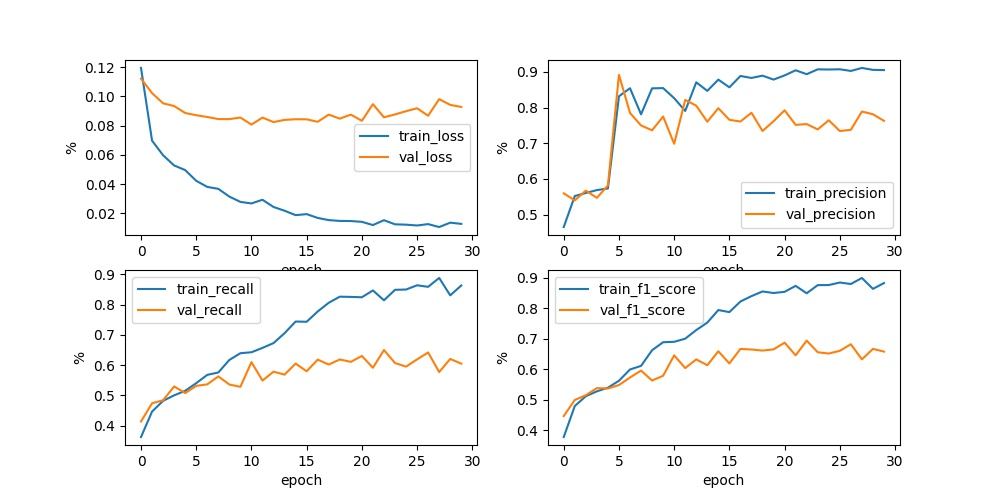
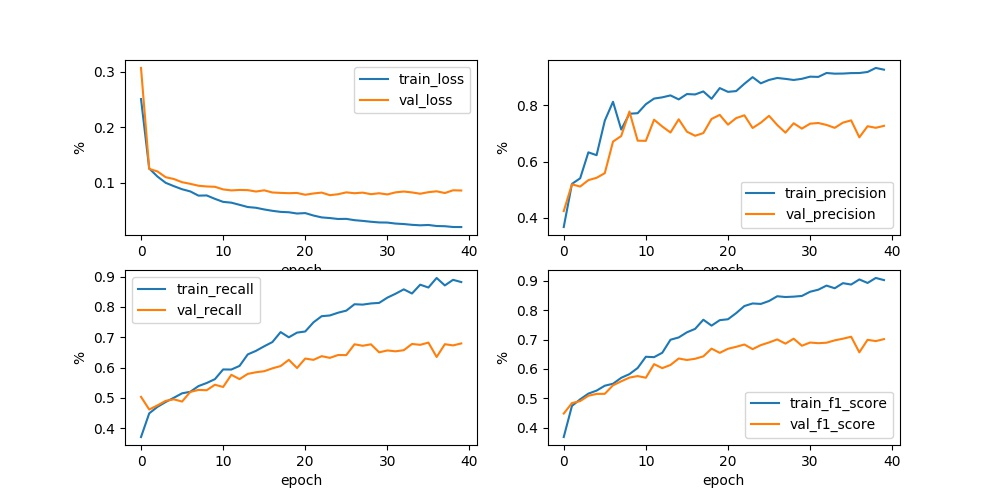
update

diff --git a/test.py b/test.py
@@ -1,3 +1,116 @@
 import yaml
+import os
+import torch
+from torch import nn
+from torch import optim
+from torch.utils.data import DataLoader
+import numpy as np
+import pickle
+from model import ConvTagger, FocalLoss
+from utils import ToweDataset, sentence_clip, eval, show
+from sklearn.metrics.scorer import precision_score, recall_score, f1_score
+from visualizer import Visualizer
 
 config = yaml.load(open('config.yml'))
+os.environ['CUDA_VISIBLE_DEVICES'] = str(config['gpu'])
+
+base_path = os.path.join('./data/', config['dataset'])
+train_data_path = os.path.join(base_path, 'train.npz')
+val_data_path = os.path.join(base_path, 'val.npz')
+log_path = os.path.join(base_path, 'log.yml')
+glove_path = os.path.join(base_path, 'glove.npy')
+plot_path = './plots/training.jpg'
+index2word_path = os.path.join(base_path, 'index2word.pickle')
+
+with open(index2word_path, 'rb') as handle:
+    index2word = pickle.load(handle)
+
+train_data = ToweDataset(train_data_path)
+val_data = ToweDataset(val_data_path)
+
+train_loader = DataLoader(
+    dataset=train_data,
+    batch_size=config['batch_size'],
+    shuffle=True,
+    pin_memory=True
+)
+val_loader = DataLoader(
+    dataset=val_data,
+    batch_size=config['batch_size'],
+    shuffle=False,
+    pin_memory=True
+)
+
+log = yaml.load(open(log_path))
+
+embedding = nn.Embedding(
+    num_embeddings=log['vocab_size'],
+    embedding_dim=config['embed_size']
+)
+embedding.weight.data.copy_(torch.from_numpy(np.load(glove_path)))
+
+tagger = ConvTagger(
+    embedding=embedding,
+    bio_embed_size=config['bio_embed_size'],
+    kernel_sizes=config['kernel_sizes'],
+    kernel_num=config['kernel_num'],
+    num_layers=config['num_layers'],
+    dropout=config['dropout']
+)
+
+tagger = tagger.cuda()
+
+# criterion = nn.CrossEntropyLoss(ignore_index=-1)
+criterion = FocalLoss(gamma=2.0, ignore_index=-1)
+
+optimizer = optim.Adam(tagger.parameters(), lr=config['learning_rate'], weight_decay=config['l2_reg'])
+
+visualizer = Visualizer(plot_path)
+
+max_val_f1_score = 0
+
+for epoch in range(config['num_epoches']):
+    preds_collection = []
+    labels_collection = []
+    total_loss = 0
+    total_samples = 0
+    for i, data in enumerate(train_loader):
+        tagger.train()
+        optimizer.zero_grad()
+        sentences, targets, labels = data
+        sentences, targets, labels = sentences.cuda(), targets.cuda(), labels.cuda()
+        sentences = sentence_clip(sentences)
+        targets = targets[:, 0:sentences.size(1)].contiguous()
+        labels = labels[:, 0:sentences.size(1)].contiguous()
+        logits = tagger(sentences, targets)
+        logits = logits.view(-1, 3)
+        preds = logits.argmax(dim=-1)
+        labels = labels.view(-1)
+        loss = criterion(logits, labels)
+        loss.backward()
+        optimizer.step()
+        batch_size = (labels != -1).long().sum().item()
+        total_loss += batch_size * loss.item()
+        total_samples += batch_size
+        preds_collection.append(preds)
+        labels_collection.append(labels)
+        # if i % 100 == 0:
+        #     print('[epoch %d] [step %d] [loss %.4f]' % (epoch, i, loss.item()))
+    preds_collection = torch.cat(preds_collection, dim=0)
+    labels_collection = torch.cat(labels_collection, dim=0)
+    mask = labels_collection != -1
+    preds_collection = preds_collection.masked_select(mask).cpu().numpy()
+    labels_collection = labels_collection.masked_select(mask).cpu().numpy()
+    train_precision = precision_score(y_true=labels_collection, y_pred=preds_collection, labels=[0, 1, 2], average='macro')
+    train_recall = recall_score(y_true=labels_collection, y_pred=preds_collection, labels=[0, 1, 2], average='macro')
+    train_f1 = f1_score(y_true=labels_collection, y_pred=preds_collection, labels=[0, 1, 2], average='macro')
+    train_loss = total_loss / total_samples
+    print('epoch: %d\tval_loss: %.4f\tprecision: %.4f\trecall: %.4f\tf1: %.4f' % (epoch, train_loss, train_precision, train_recall, train_f1))
+    val_loss, val_precision, val_recall, val_f1 = eval(tagger, val_loader, criterion)
+    print('epoch: %d\tval_loss: %.4f\tprecision: %.4f\trecall: %.4f\tf1: %.4f\n' % (epoch, val_loss, val_precision, val_recall, val_f1))
+    visualizer.add(epoch, train_loss, train_precision, train_recall, train_f1, val_loss, val_precision, val_recall, val_f1)
+    max_val_f1_score = max(max_val_f1_score, val_f1)
+
+print('max val f1_score: %.4f' % max_val_f1_score)
+
+visualizer.plot()

diff --git a/model.py b/model.py
@@ -40,10 +40,7 @@ class ConvTagger(nn.Module):
         targets = self.bio_embedding(targets)
         feature_map = torch.cat((sentences, targets), dim=-1).transpose(1, 2)
         for i, layer in enumerate(self.conv_layers):
-            if i == 0:
-                feature_map = layer(feature_map)
-            else:
-                feature_map = layer(feature_map) + feature_map
+            feature_map = layer(feature_map)
         feature_map = feature_map.transpose(1, 2)
         logits = self.output_projection(feature_map)
         logits = logits.masked_fill(mask.unsqueeze(-1)==0, 0)
@@ -56,6 +53,7 @@ class ConvLayer(nn.Module):
         self.input_size = input_size
         self.output_size = len(kernel_sizes) * kernel_num
         self.kernel_sizes = kernel_sizes
+        self.norm = nn.BatchNorm1d(input_size)
         self.kernels = nn.ModuleList()
         for kernel_size in kernel_sizes:
             self.kernels.append(nn.Conv1d(
@@ -66,6 +64,9 @@ class ConvLayer(nn.Module):
         self.dropout = dropout
 
     def forward(self, input):
+        # input = input.transpose(1, 2)
+        input = self.norm(input)
+        # input = input.transpose(1, 2)
         feature_map = []
         for kernel_size, kernel in zip(self.kernel_sizes, self.kernels):
             left_pad = (kernel_size - 1) // 2
@@ -73,6 +74,8 @@ class ConvLayer(nn.Module):
             feature_map.append(torch.relu(kernel(F.pad(input, [left_pad, right_pad, 0, 0, 0, 0]))))
         feature_map = torch.cat(feature_map, dim=1)
         feature_map = F.dropout(feature_map)
+        if input.size() == feature_map.size():
+            feature_map = feature_map + input
         return feature_map
 
 class RecurrentTagger(nn.Module):

diff --git a/preprocess.py b/preprocess.py
@@ -2,6 +2,7 @@ import yaml
 import os
 import pickle
 import numpy as np
+import random
 from utils import Vocab, data_transform, load_glove
 
 # load config
@@ -27,6 +28,8 @@ train_data = open(train_src_path, 'r', encoding='utf-8').readlines()[1:]
 test_data = open(test_src_path, 'r', encoding='utf-8').readlines()[1:]
 
 # split training and validation datasets
+
+random.shuffle(train_data)
 
 num = len(train_data)
 val_num = int(num * config['val_rate'])

diff --git a/train.py b/train.py
@@ -61,7 +61,7 @@ tagger = ConvTagger(
 tagger = tagger.cuda()
 
 # criterion = nn.CrossEntropyLoss(ignore_index=-1)
-criterion = FocalLoss(gamma=2.0, ignore_index=-1)
+criterion = FocalLoss(gamma=1.0, ignore_index=-1)
 
 optimizer = optim.Adam(tagger.parameters(), lr=config['learning_rate'], weight_decay=config['l2_reg'])
 
